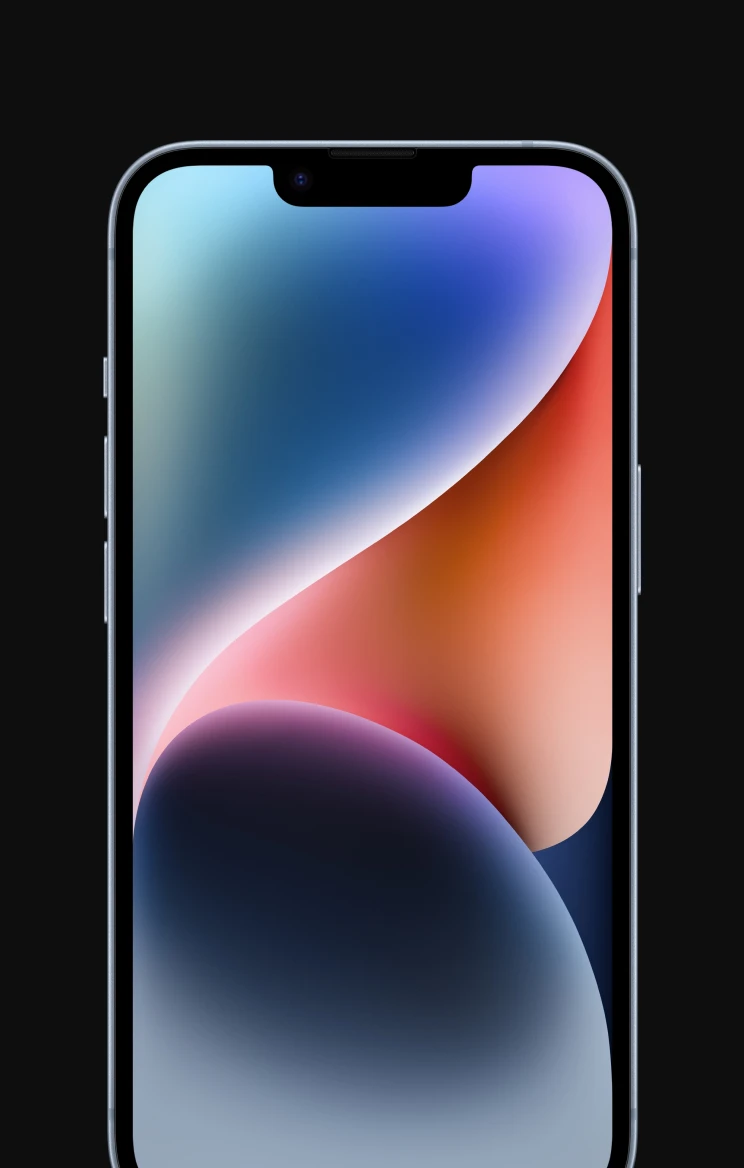
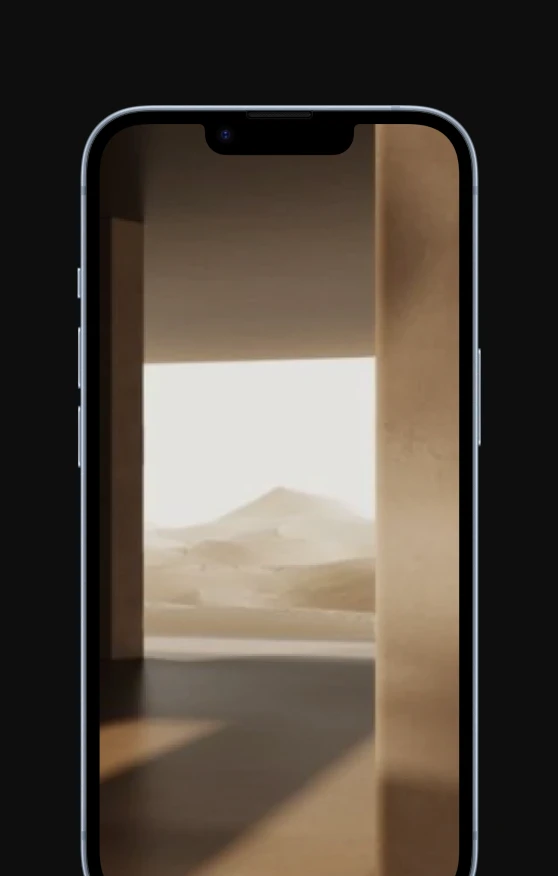
feat: projects listing

diff --git a/src/components/sections/Projects.tsx b/src/components/sections/Projects.tsx
@@ -1,7 +1,7 @@
 "use client";
 
 import { useState } from "react";
-import { motion } from "framer-motion";
+import { motion, AnimatePresence } from "framer-motion";
 import Image from "next/image";
 import { MaskInText } from "@/components/ui";
 import { cn } from "@/utils";
@@ -19,14 +19,14 @@ export function Projects() {
   return (
     <section
       id="projets"
-      className="min-h-screen flex flex-col justify-center px-28 py-26 snap-start snap-always"
+      className="min-h-screen flex flex-col justify-center px-28 py-20 snap-start snap-always"
     >
       {/* Title */}
-      <div className="mb-12">
+      <div className="mb-8">
         <h2 className="text-heading-lg">
           <MaskInText delay={0.2}>Des projets pensés pour durer</MaskInText>
           <MaskInText delay={0.5} className="pl-30">
-            Architectures claires, produits utiles.
+            Fondations solides, résultats concrets.
           </MaskInText>
         </h2>
       </div>
@@ -45,7 +45,7 @@ export function Projects() {
             <a
               key={project.title}
               href={project.href}
-              className="group/item relative bg-black/16 px-8 py-10 hover:border-[1.5px] hover:border-white/24"
+              className="group/item relative bg-black/16 p-8 border-[1.5px] border-background hover:border-white/24"
               onMouseEnter={() => setHoveredIndex(index)}
               onMouseLeave={() => setHoveredIndex(null)}
             >
@@ -69,7 +69,7 @@ export function Projects() {
                   {project.stacks.map((stack) => (
                     <span
                       key={stack}
-                      className="rounded-full px-3 py-1 text-paragraph-caps border border-white/8 uppercase"
+                      className="rounded-full px-3 py-1 text-paragraph-sm border border-white/8 uppercase"
                     >
                       {stack}
                     </span>
@@ -83,16 +83,26 @@ export function Projects() {
         {/* Right - Image (1/3) */}
         <div
           className={cn(
-            "hidden lg:block relative h-full",
-            hoveredIndex == null && "peer-hover:hidden"
+            "hidden lg:block relative h-full border-[1.5px] border-background overflow-hidden bg-[#0E0E0E]",
           )}
         >
-          <Image
-            src={currentImage}
-            alt="Project preview"
-            fill
-            className="object-cover object-top transition-opacity duration-500"
-          />
+          <AnimatePresence>
+            <motion.div
+              key={currentImage}
+              initial={{ opacity: 0 }}
+              animate={{ opacity: 1 }}
+              exit={{ opacity: 0 }}
+              transition={{ duration: 0.3, ease: "easeOut" }}
+              className="absolute inset-0"
+            >
+              <Image
+                src={currentImage}
+                alt="Project preview"
+                fill
+                className="object-cover object-top"
+              />
+            </motion.div>
+          </AnimatePresence>
         </div>
       </motion.div>
     </section>

diff --git a/src/data/projects.ts b/src/data/projects.ts
@@ -2,21 +2,27 @@ import type { Project } from "@/types";
 
 export const projects: Project[] = [
   {
-    title: "Projet 1",
+    title: "[2022-2025] Uptoo",
     stacks: ["React", "Node.js", "GraphQL"],
-    image: "/about-placeholder.webp",
-    href: "/projets/projet-1",
+    image: "/project-uptoo.webp",
+    href: "/projets/uptoo",
   },
-  {
-    title: "Projet 2",
+   {
+    title: "[2026] Kapture",
     stacks: ["Vue.js", "Firebase", "Tailwind CSS"],
-    image: "/about-placeholder.webp",
-    href: "/projets/projet-2",
+    image: "/project-kapture.webp",
+    href: "/projets/kapture",
   },
   {
-    title: "Projet 3",
+    title: "[2026] Gabriel Field",
     stacks: ["Angular", "TypeScript", "RxJS"],
-    image: "/about-placeholder.webp",
-    href: "/projets/projet-3",
+    image: "/project-gfield.webp",
+    href: "/projets/gfield",
+  },
+   {
+    title: "[2022] NearList",
+    stacks: ["Angular", "TypeScript", "RxJS"],
+    image: "/project-nearlist.webp",
+    href: "/projets/nearlist",
   },
 ];